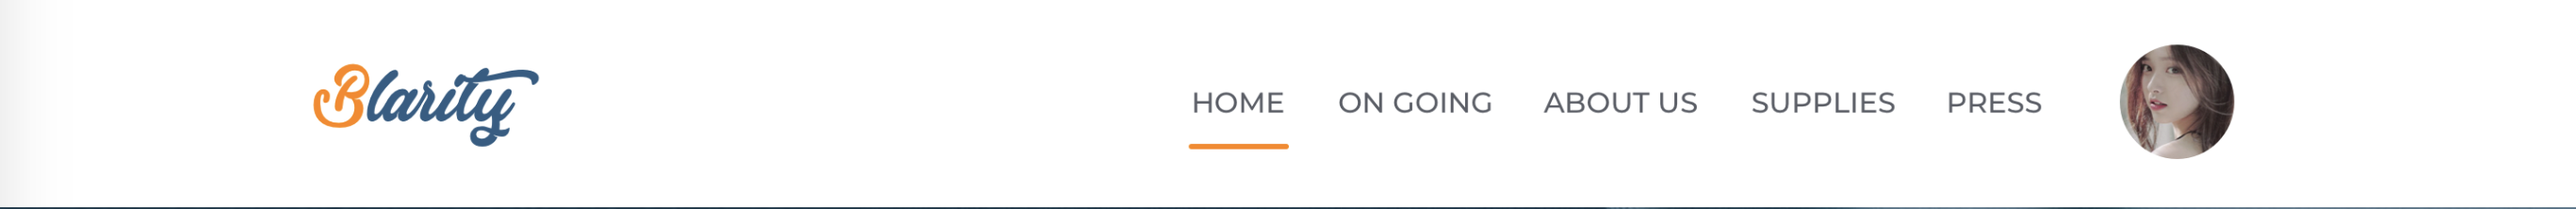
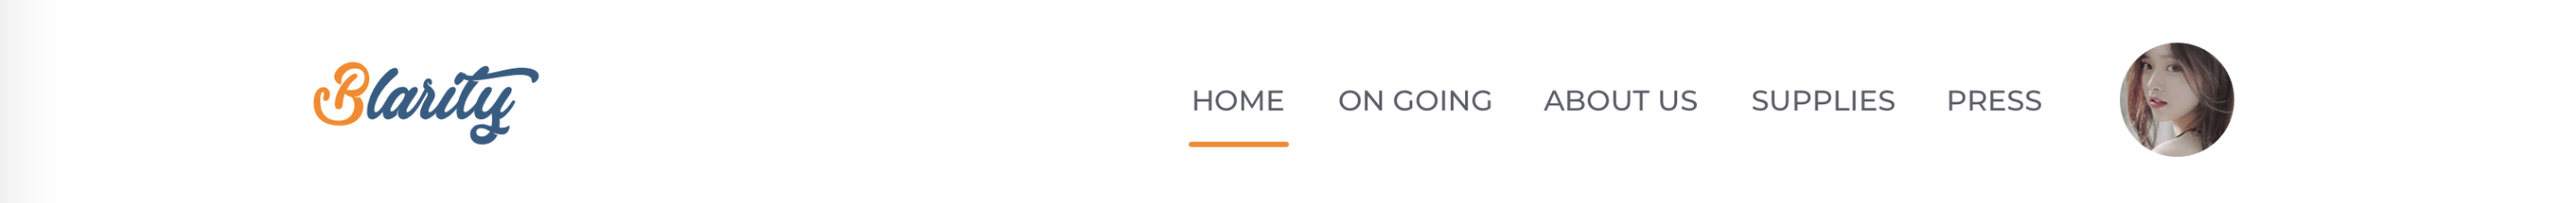
update css

diff --git a/src/components/Detail.jsx b/src/components/Detail.jsx
@@ -1,5 +1,10 @@
 import React, { Component } from 'react';
-import env from "../env"
+import env from "../env";
+import breadcrumb from '../assets/img/breadcrumb.png';
+import title_project from '../assets/img/title_project.png';
+import content_project from '../assets/img/content_project.png';
+import right_sidebar from '../assets/img/right_sidebar.png';
+import '../assets/css/detail.scss';
 
 const tokensSupport = Object.keys(env.tokens).map(t => ({
   symbol: t,
@@ -46,18 +51,32 @@ class Detail extends Component {
   render() {
     return (
       <div>
-        This view show detail of campain
-
-    - normal user can donate for campain
-      input: amount, Address of user want to deligate
-
-      if( want revert money) show button revert money for user
-
-    - creator of campain
-      show button clain money, input amount
-      wait for DAO approve
-
-    <br />
+        <div className="page-content">
+          <img src={breadcrumb} alt=""/>
+          <img className="right-sidebar" src={right_sidebar} alt=""/>
+          <div className="article-content">
+            <img src={title_project} alt=""/>
+            <div className="form-approval">
+              <div className="title">Request withdraw</div>
+              <div className="d-inline-block mr-5">Amount: 12 ETH</div>
+              <div className="d-inline-block">Due Date: 22 Jan 2019</div>
+              <div className="mt-1">Due Date: 22 Jan 2019</div>
+              <div className="group-btn">
+                <button className="h-btn mr-3">Reject</button>
+                <button className="h-btn h-blue">Accept</button>
+              </div>
+            </div>
+            <div className="d-flex justify-content-between balance-area">
+              <div className="title">Current Balance: </div>
+              <div>
+                <div className="balance">16 ETH</div>
+                <button className="h-btn">History</button>
+              </div>
+            </div>
+            <img src={content_project} alt=""/>
+          </div>
+        </div>
+        <br />
         <form>
           <div className="form-group">
             <label htmlFor="exampleInputEmail1">Select Token</label>

diff --git a/src/assets/css/app.scss b/src/assets/css/app.scss
@@ -1,9 +1,15 @@
+@import url('https://fonts.googleapis.com/css?family=Montserrat:300,400,500,600,700');
+
 *{
   margin: 0;
   padding: 0;
 }
 body{
   width: 100%;
+  font-family: 'Montserrat', sans-serif;
+  color: #5a5e67;
+  font-weight: 500;
+  font-size: 15px;
 }
 img{
   max-width: 100%;
@@ -11,4 +17,36 @@ img{
 }
 .relative{
   position: relative;
+}
+.page-content{
+  background-color: #f6fbff;
+  position: relative;
+  .right-sidebar{
+    width: 20%;
+    position: absolute;
+    right: 0;
+  }
+}
+.article-content{
+  width: 50%;
+  margin: 0 auto;
+  padding-bottom: 5%;
+}
+.h-btn{
+  background-color: transparent;
+  border: 1px solid #338bdd;
+  color: #338bdd;
+  font-weight: 600;
+  border-radius: 20px;
+  padding: 5px 22px;
+  &:hover{
+    cursor: pointer;
+  }
+  &:focus{
+    outline: none;
+  }
+  &.h-blue{
+    background-color: #338bdd;
+    color: #fff;
+  }
 }

diff --git a/src/assets/css/detail.scss b/src/assets/css/detail.scss
@@ -1,0 +1,38 @@
+.form-approval{
+  background-color: #fff6db;
+  border: 1px dashed #ffc100;
+  border-radius: 5px;
+  padding: 19px;
+  margin: 20px 0 40px;
+  position: relative;
+  .group-btn{
+    margin-top: 20px;
+    @media screen and(min-width: 1200px) {
+      position: absolute;
+      right: 20px;
+      top: 30px;
+    }
+  }
+  .title{
+    font-size: 18px;
+    color: #ff8600;
+    font-weight: 600;
+    margin-bottom: 10px;
+  }
+}
+.balance-area{
+  margin-bottom: 30px;
+  .title{
+    font-size: 16px;
+  }
+  .balance{
+    text-align: right;
+    font-size: 23px;
+    color: #ff8600;
+    margin: -10px 0 8px;
+  }
+  .h-btn{
+    border-color: #b0c3d3;
+    color: #5a5e67;
+  }
+}

diff --git a/src/template.html b/src/template.html
@@ -4,10 +4,11 @@
   <meta charset="utf-8">
   <title>React App</title>
   <meta name="viewport" content="width=device-width, initial-scale=1">
+  <link rel="stylesheet" href="https://stackpath.bootstrapcdn.com/bootstrap/4.1.3/css/bootstrap.min.css">
 </head>
 <body>
-  <div class="container">
-    <div id="app">Loading...</div>
-  </div>
+  <div id="app">Loading...</div>
+  <script src="https://code.jquery.com/jquery-3.3.1.min.js"></script>
+  <script src="https://stackpath.bootstrapcdn.com/bootstrap/4.1.3/js/bootstrap.min.js"></script>
 </body>
 </html>

diff --git a/src/components/Navigation.jsx b/src/components/Navigation.jsx
@@ -1,9 +1,14 @@
 import React from 'react';
 import headerImg from '../assets/img/header.png';
 
+import { Link } from 'react-router-dom';
+import '../assets/css/banner.scss';
+
 const Navigation = () => (
-  <header>
+  <header className="relative">
     <img src={headerImg} alt=""/>
+    <Link className="link-brand" to="/">Brand</Link>
+    <Link className="link-home" to="/">Home</Link>
   </header>
 );
 

diff --git a/src/assets/css/banner.scss b/src/assets/css/banner.scss
@@ -1,0 +1,18 @@
+.link-brand{
+  display: block;
+  width: 9%;
+  height: 35%;
+  position: absolute;
+  opacity: 0;
+  top: 26%;
+  left: 12%;
+}
+.link-home{
+  display: block;
+  width: 7%;
+  height: 45%;
+  position: absolute;
+  opacity: 0;
+  top: 27%;
+  left: calc(44% + 7px);
+}
